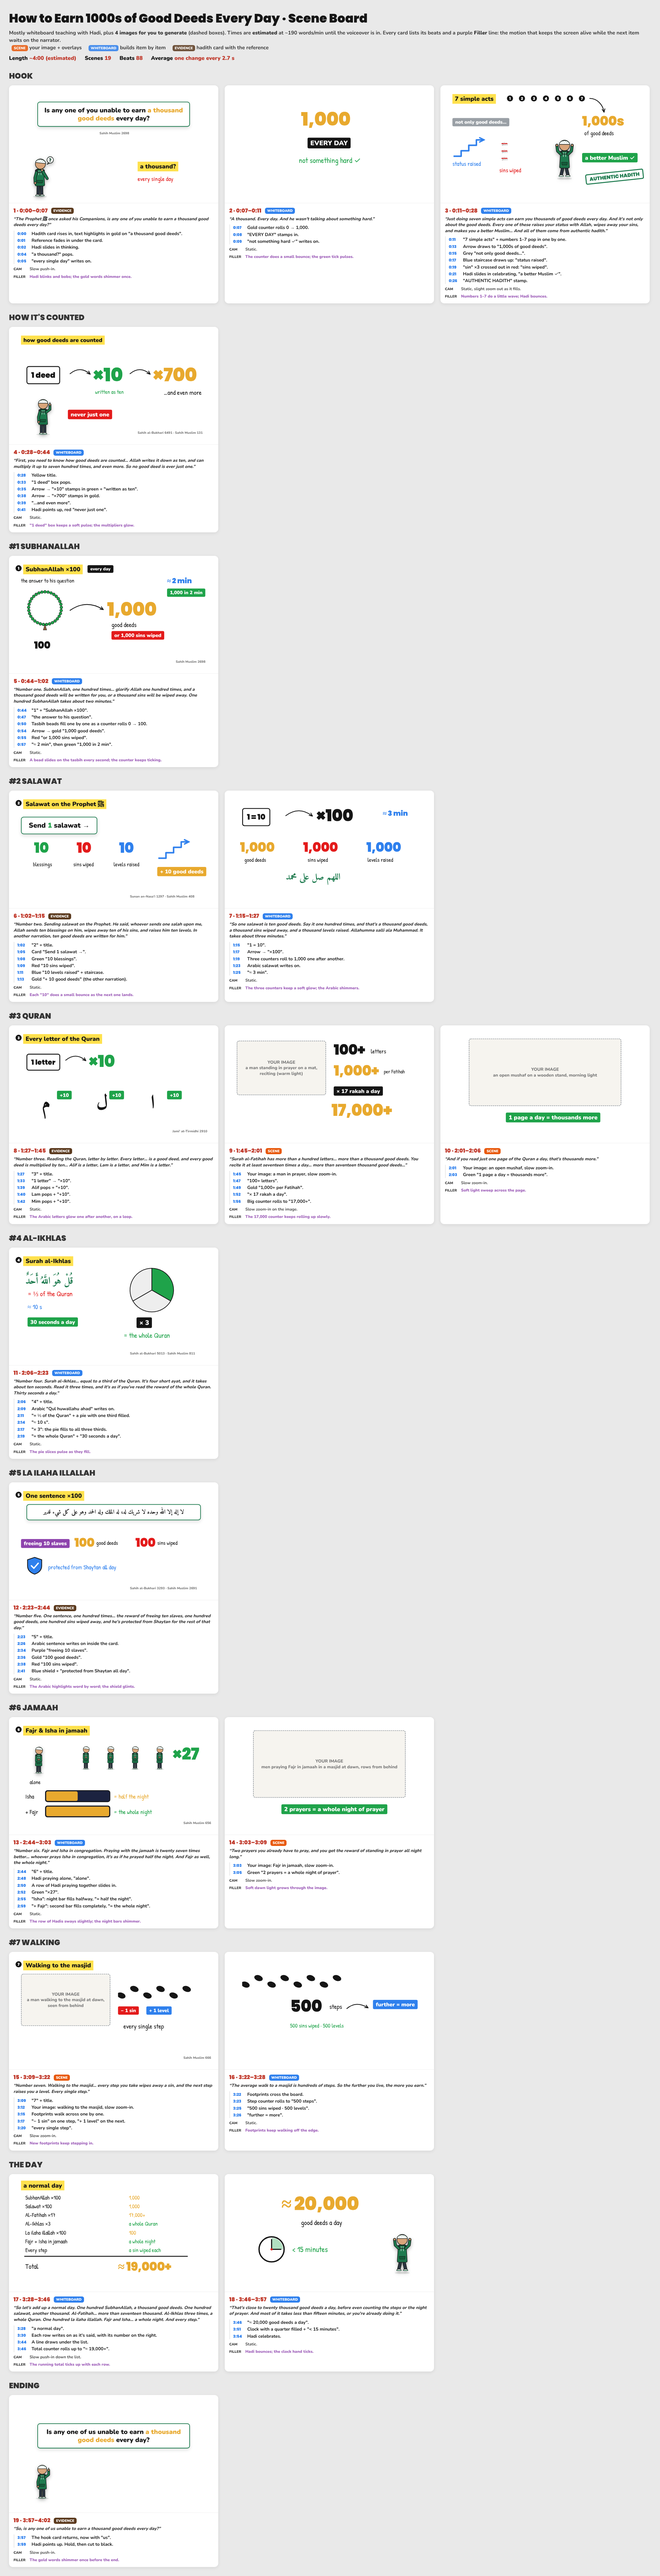
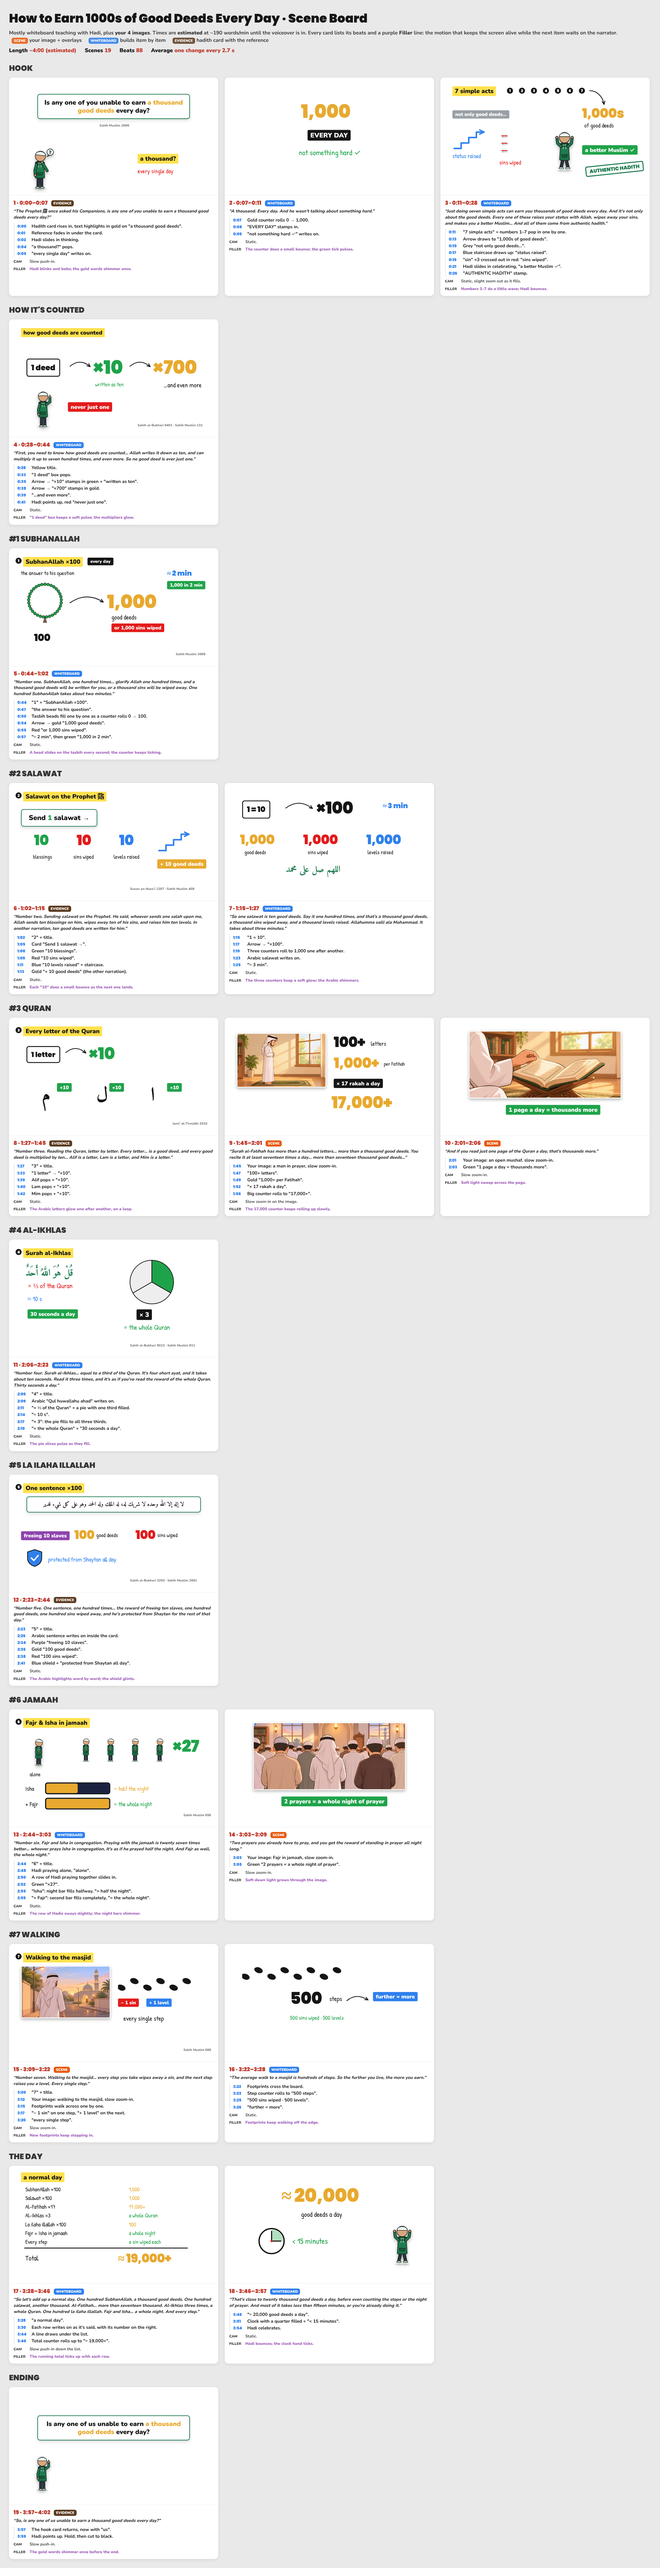
Ep8: your 4 images placed on the board
Claude-Session: https://claude.ai/code/session_01QVTU5PaE9KihLGBMkdjEyk

diff --git a/storyboards/08-good-deeds/index.html b/storyboards/08-good-deeds/index.html
@@ -49,7 +49,7 @@ h1{font:900 38px Poppins;margin-bottom:6px}
 .row .f{color:#8E44AD;font-weight:900}
 </style></head><body>
 <h1>How to Earn 1000s of Good Deeds Every Day · Scene Board</h1>
-<div class="sub">Mostly whiteboard teaching with Hadi, plus <b>4 images for you to generate</b> (dashed boxes). Times are <b>estimated</b> at ~190 words/min until the voiceover is in. Every card lists its beats and a purple <b>Filler</b> line: the motion that keeps the screen alive while the next item waits on the narrator.<br>
+<div class="sub">Mostly whiteboard teaching with Hadi, plus <b>your 4 images</b>. Times are <b>estimated</b> at ~190 words/min until the voiceover is in. Every card lists its beats and a purple <b>Filler</b> line: the motion that keeps the screen alive while the next item waits on the narrator.<br>
 <span class="tag sc">SCENE</span> your image + overlays &nbsp; <span class="tag wb">WHITEBOARD</span> builds item by item &nbsp; <span class="tag ev">EVIDENCE</span> hadith card with the reference</div>
 <div class="stats" id="stats"></div><div id="board"></div>
 <script>let _id=0;
@@ -92,7 +92,8 @@ const progress=(x,y,w,f1,f2)=>`<div class="a" data-k="icon" style="left:${x}px;t
 
 const CARD=(txt,x,y,w,size=60)=>`<div class="card" data-k="text" style="left:${x}px;top:${y}px;width:${w}px;font-size:${size}px">${txt}</div>`;
 const REF=(t,x,y)=>`<div class="lbl" data-k="text" style="left:${x}px;top:${y}px;font:800 30px Nunito;color:#777">${t}</div>`;
-const YIMG=(t,x,y,w,h)=>`<div class="ph" data-k="photo" style="left:${x}px;top:${y}px;width:${w}px;height:${h}px">YOUR IMAGE<br>${t}</div>`;
+const IMGS={'a man standing in prayer on a mat, reciting (warm light)':'1-prayer','an open mushaf on a wooden stand, morning light':'2-mushaf','men praying Fajr in jamaah in a masjid at dawn, rows from behind':'3-jamaah','a man walking to the masjid at dawn, seen from behind':'4-walking'};
+const YIMG=(t,x,y,w,h)=>`<div class="photo" data-k="photo" style="left:${x}px;top:${y}px;width:${w}px;height:${h}px;background-image:url(img/${IMGS[t]}.jpg)"></div>`;
 const BIG=(t,x,y,size=170,c='#E8A92E')=>`<div class="lbl" data-k="text" style="left:${x}px;top:${y}px;font:900 ${size}px Poppins;color:${c};letter-spacing:-2px;line-height:1.3">${t}</div>`;
 const BOX=(t,x,y,size=64)=>`<div class="lbl" data-k="text" style="left:${x}px;top:${y}px;border:8px solid #151515;border-radius:22px;padding:22px 36px;font:900 ${size}px Poppins;color:#151515">${t}</div>`;
 const TASBIH=(x,y,r=150,fill=33)=>{let s='';for(let i=0;i<33;i++){const a=i/33*2*Math.PI-Math.PI/2;s+=`<circle cx="${r+30+Math.cos(a)*r}" cy="${r+30+Math.sin(a)*r}" r="13" fill="${i<fill?'#1FA34A':'#E6DED2'}" stroke="#151515" stroke-width="3"/>`}return `<svg class="a" data-k="icon" style="left:${x}px;top:${y}px" width="${2*r+60}" height="${2*r+110}"><circle cx="${r+30}" cy="${r+30}" r="${r}" fill="none" stroke="#8B5E3C" stroke-width="4"/>${s}<path d="M${r+30},${2*r+30} l-16,50 h32 z" fill="#8B5E3C" stroke="#151515" stroke-width="3"/></svg>`};
